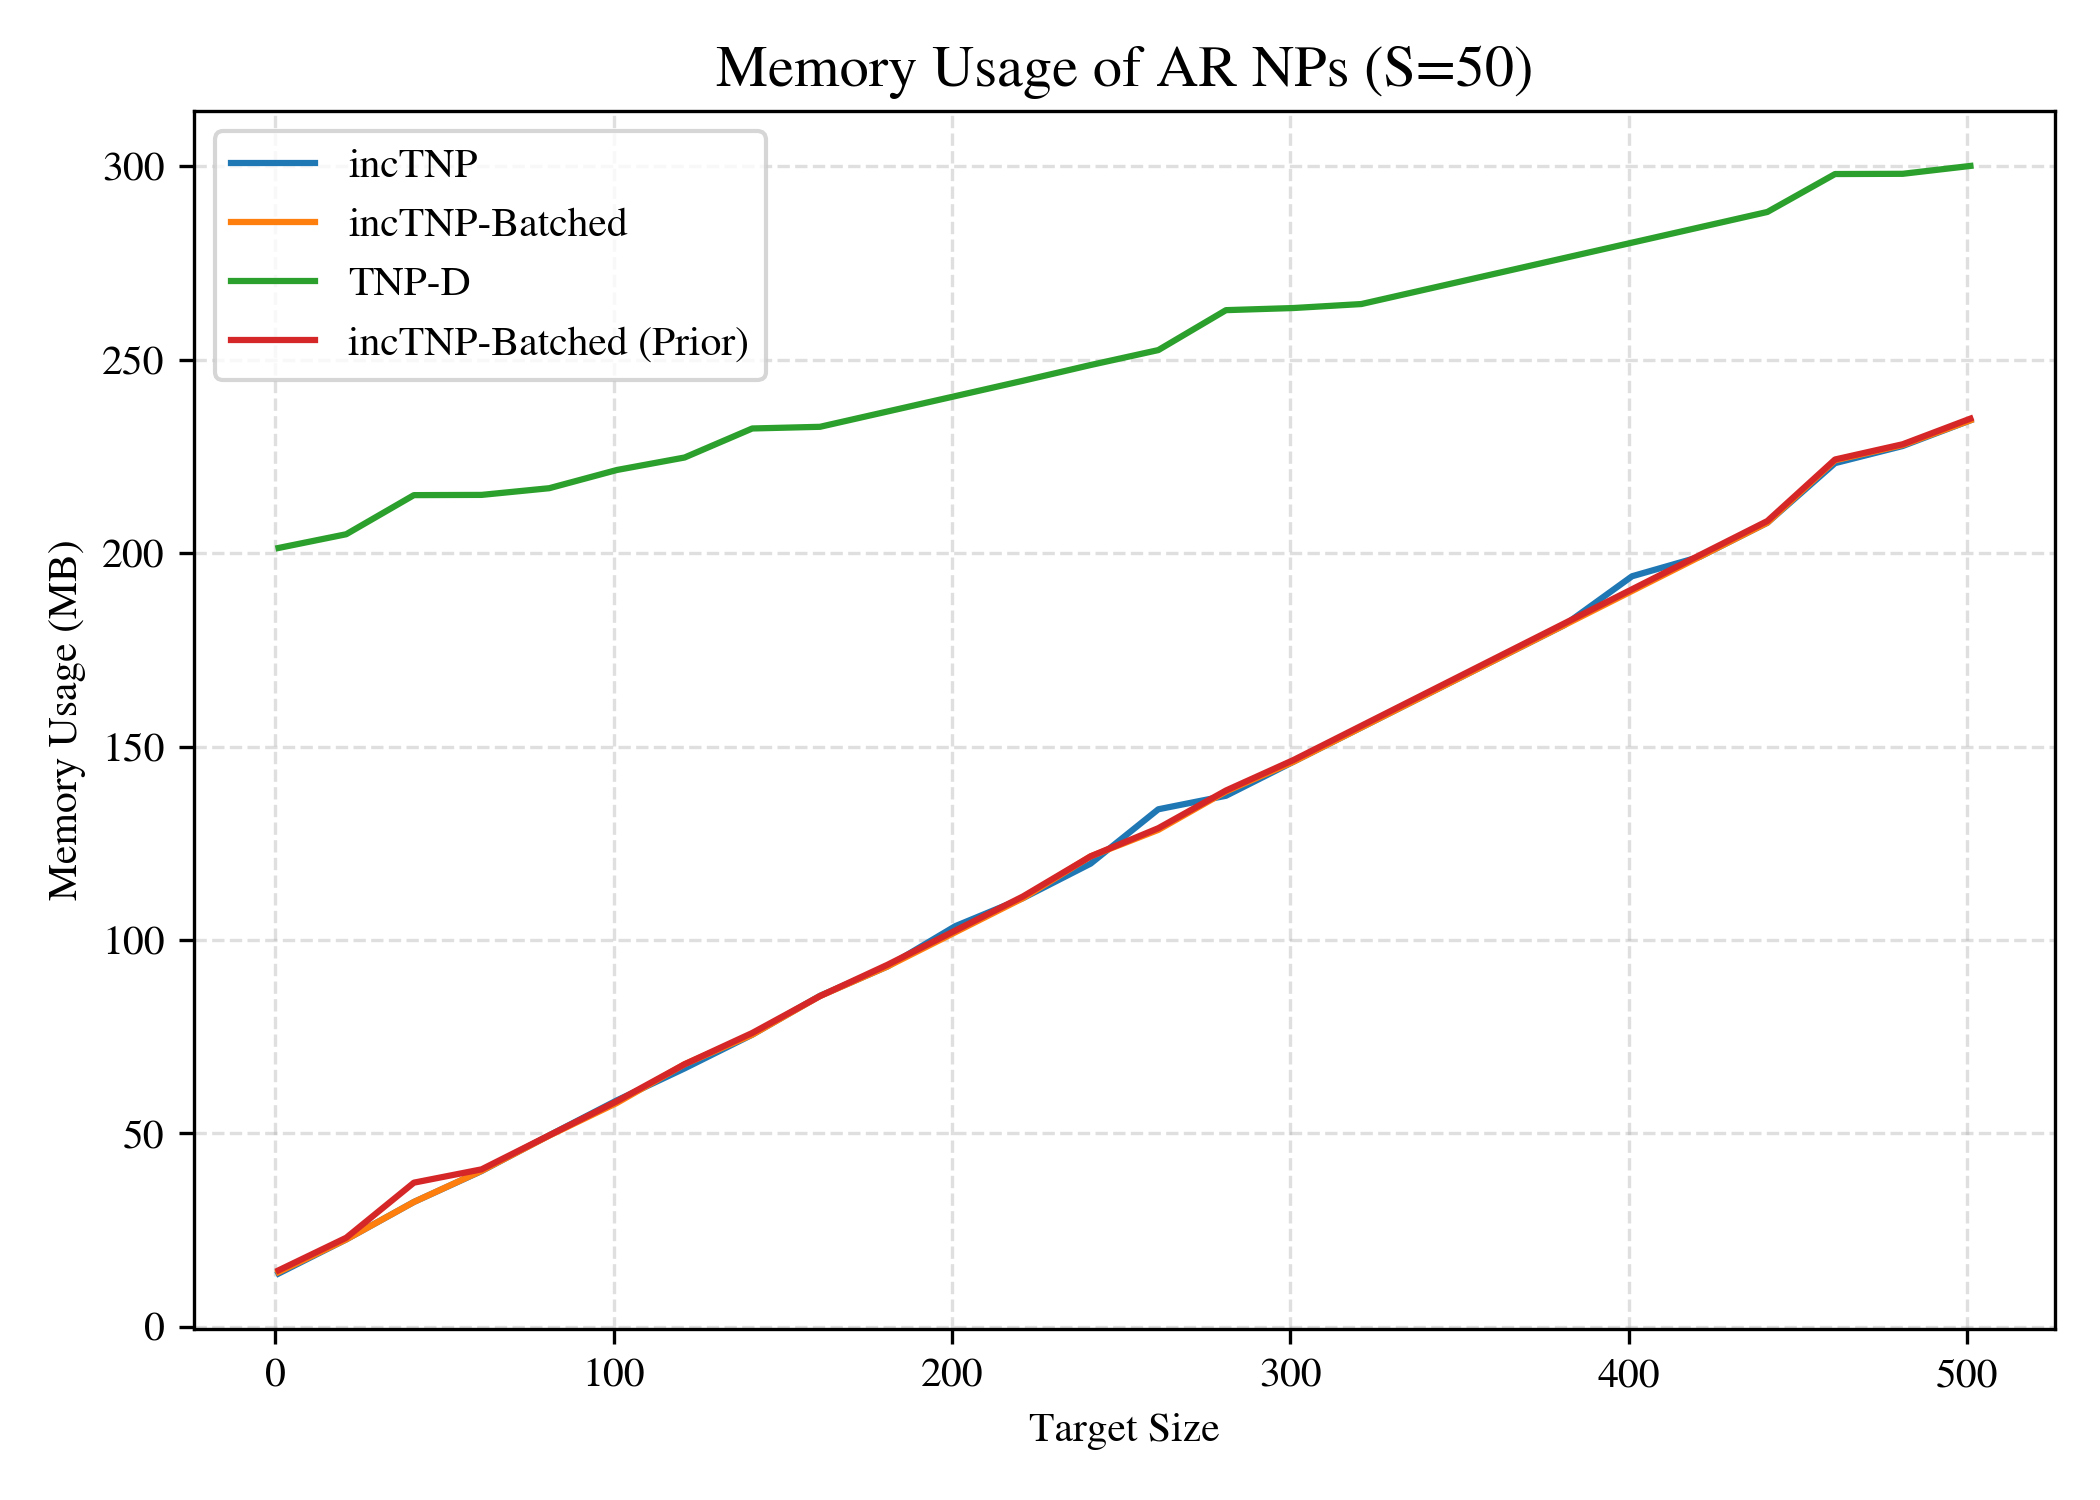
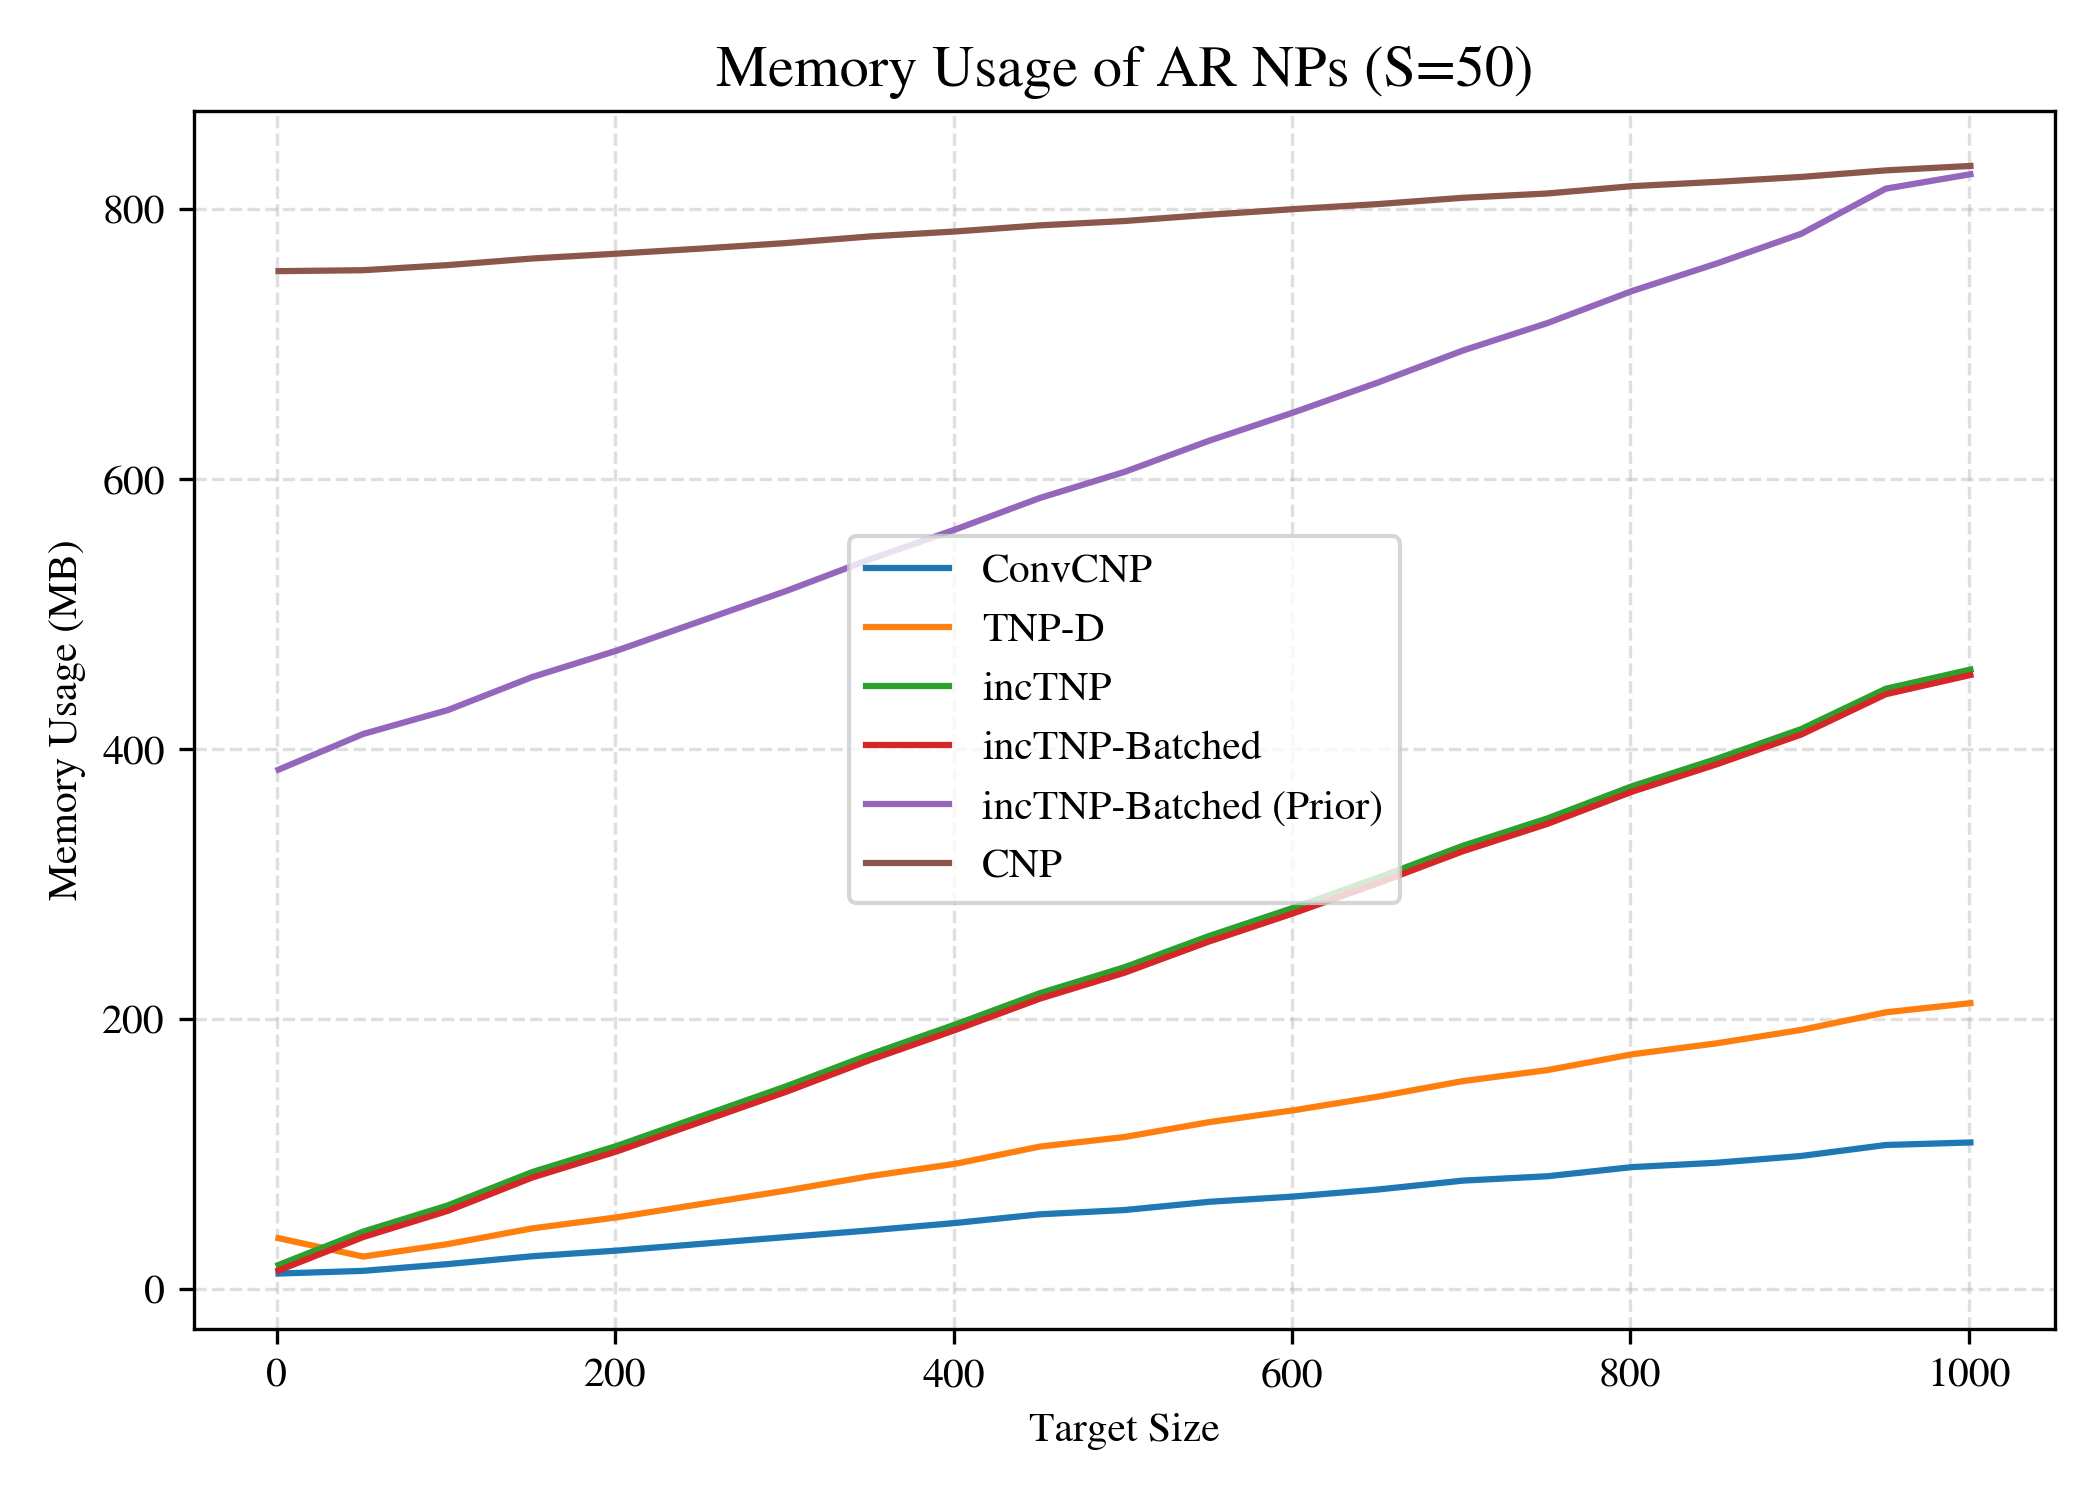
Pretty unrolled plot runtime

diff --git a/experiments/arnp.py b/experiments/arnp.py
@@ -309,7 +309,7 @@ def get_model_list():
         'pm846-university-of-cambridge/cnp-rbf-rangesame/model-uywfyrx7:v200', 'CNP')
     conv_cnp = ('experiments/configs/synthetic1dRBF/gp_convcnp_rangesame.yml',
         'pm846-university-of-cambridge/convcnp-rbf-rangesame/model-uj54q1ya:v200', 'ConvCNP')
-    models = [tnp_plain, incTNP, batchedTNP, priorBatched, cnp, conv_cnp]
+    models = [conv_cnp, tnp_plain, incTNP, batchedTNP, priorBatched, cnp]
     return models
 
 # Compares NP models in AR mode on RBF set

diff --git a/tnp/models/convcnp.py b/tnp/models/convcnp.py
@@ -85,6 +85,7 @@ class ConvCNP(ConditionalNeuralProcess):
         likelihood: nn.Module,
     ):
         super().__init__(encoder, decoder, likelihood)
+        self.likelihood.min_noise = 1e-5 #  Adds little noise here because sometimes scale is exactly 0 - check to ensure this is small enough to not impact other perf - hacky
 
 
 class GriddedConvCNP(nn.Module):
